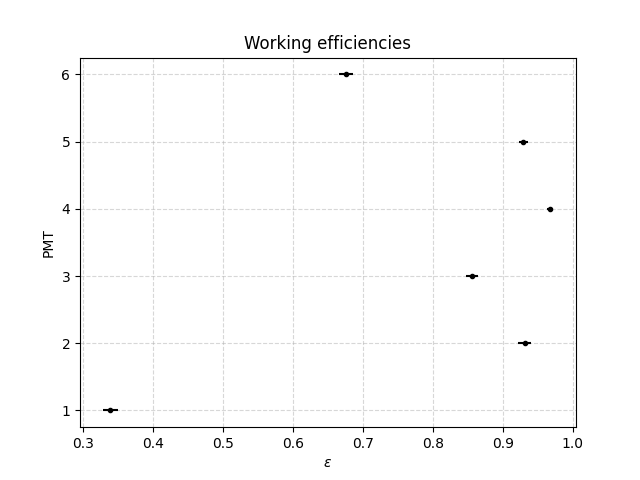
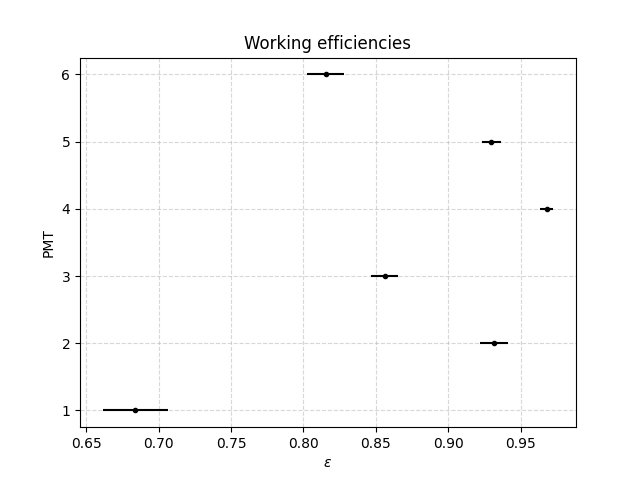
PMT 1 & 6 acceptance corrections

diff --git a/instrumentation/acceptance.py b/instrumentation/acceptance.py
@@ -33,10 +33,10 @@ double make_simulation(int n_run, float h, float lx, float ly, float llx, float 
 
 ROOT.gInterpreter.ProcessLine(cpp_code)
 
-z = [50, 20, 20, 20, 20, 20]
+z = [40, 0, 0, 0, 0, 10]
 x = 40
 y = 48
-n_sample = 10000000
+n_sample = 100000
 
 acceptance = [0, 0, 0, 0, 0, 0]
 

diff --git a/instrumentation/efficiency.py b/instrumentation/efficiency.py
@@ -1,9 +1,9 @@
 import os
 import numpy as np
 import matplotlib.pyplot as plt
-# from acceptance import acceptance
+from acceptance import acceptance
 
-acceptance = 1.0
+# acceptance = 1.0
 
 counts_path = os.path.join(os.path.dirname(__file__), 'counts')
 
